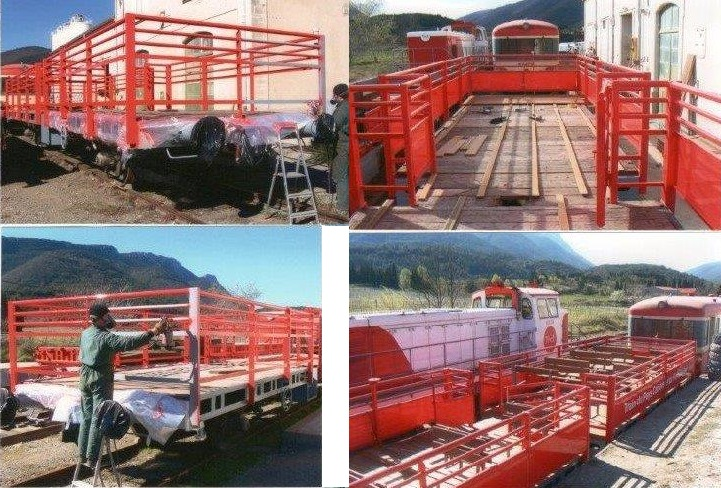
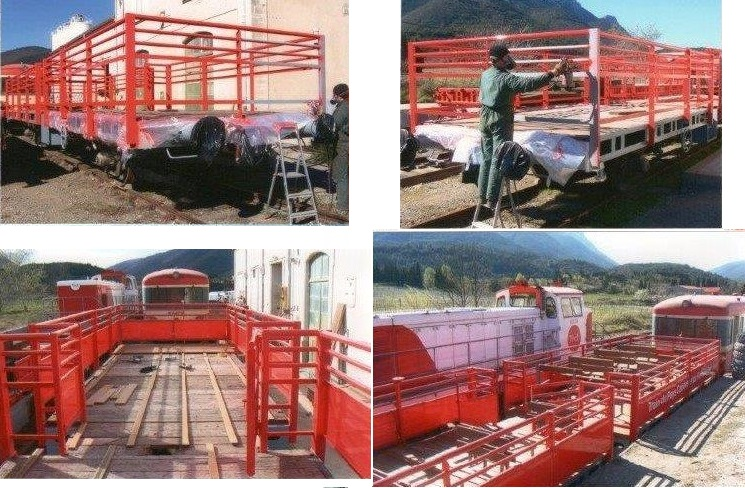
photos train touristique

diff --git a/gare/TrainTouristique.html b/gare/TrainTouristique.html
@@ -194,12 +194,14 @@ voyageurs... C'était il y a plus de 15 ans...</p>
       <p>Des machines relativement simples et  puissantes pour affronter les rampes de 25mm/m de la ligne.</p>
 
 <p>Pour les voitures, les concepteurs ont utilisé des wagons de marchandise déclassés par la SNCF. Les premières transformations furent étudiées par un bureau d'étude et construite par des personnes en insertion sous couvert d'une association d'insertion. Cette structure a permis à de nombreuses personnes de se remettre au travail et découvrir des métiers qui pouvaient être une piste pour leur recherche d'emploi. Puis par la suite l'équipe du TPCF s'étant étoffée, ce sont les salariés qui continuèrent ces travaux. Il faut savoir que TPCF emploi un mécanicien, un peintre carrossier à l'année et du personnel polyvalent ponctuellement. Le TPCF utilise également les services d'un travailleur indépendant pour les travaux de voie et de la mécanique. Quant il fallu construire une voiture couverte pour les personnes sensibles au soleil, il fut fait appel aux entreprises locales. Donner du travail au territoire, est aussi une préoccupation du TPCF et du syndicat du train touristique.</p>
-      <img src="images/Construction%20des%20voitures%20decouvertes%20dec.jpg" alt="La construction des voitures et leur mise en peinture" width="721" height="488"> 
-      <p class="Legende-image">La construction des voitures et leur mise en peinture</p>
+      <img src="images/Construction%20des%20voitures%20decouvertes%20couverte.jpg" alt="la construction de la dernière voiture couverte" width="732" height="239"> 
+      <p class="Legende-image">La construction de la voiture couverte à essieux réalisée à l'époque du chantier d'insertion.<br>(Dernière des voitures qu'on peut voir sur les photos du train panoramique)</p>
       
-            <img src="images/Construction%20des%20voitures%20decouvertes%20double.jpg" alt="la construction de la voiture couverte" width="714" height="491"> 
-      <p class="Legende-image">La construction de la voiture couverte, par l'entreprise de St Paul de Fenouillet et transport</p>
-
+    <img src="images/Construction%20des%20voitures%20decouvertes%20double.jpg" alt="la construction de la voiture couverte" width="714" height="491"> 
+      <p class="Legende-image">La construction de la grande voiture couverte, par l'entreprise de St Paul de Fenouillet et son transport vers la gare de St Paul pour sa remise sur voie</p>
+      
+<img src="images/Construction%20des%20voitures%20decouvertes%20dec.jpg" alt="La construction des voitures et leur mise en peinture" width="745" height="488"> 
+      <p class="Legende-image">Mise en peinture par les employés de TPCF, puis mise en service des voitures découvertes</p>
       
       <h3>Depuis Rivesaltes</h3>
       
